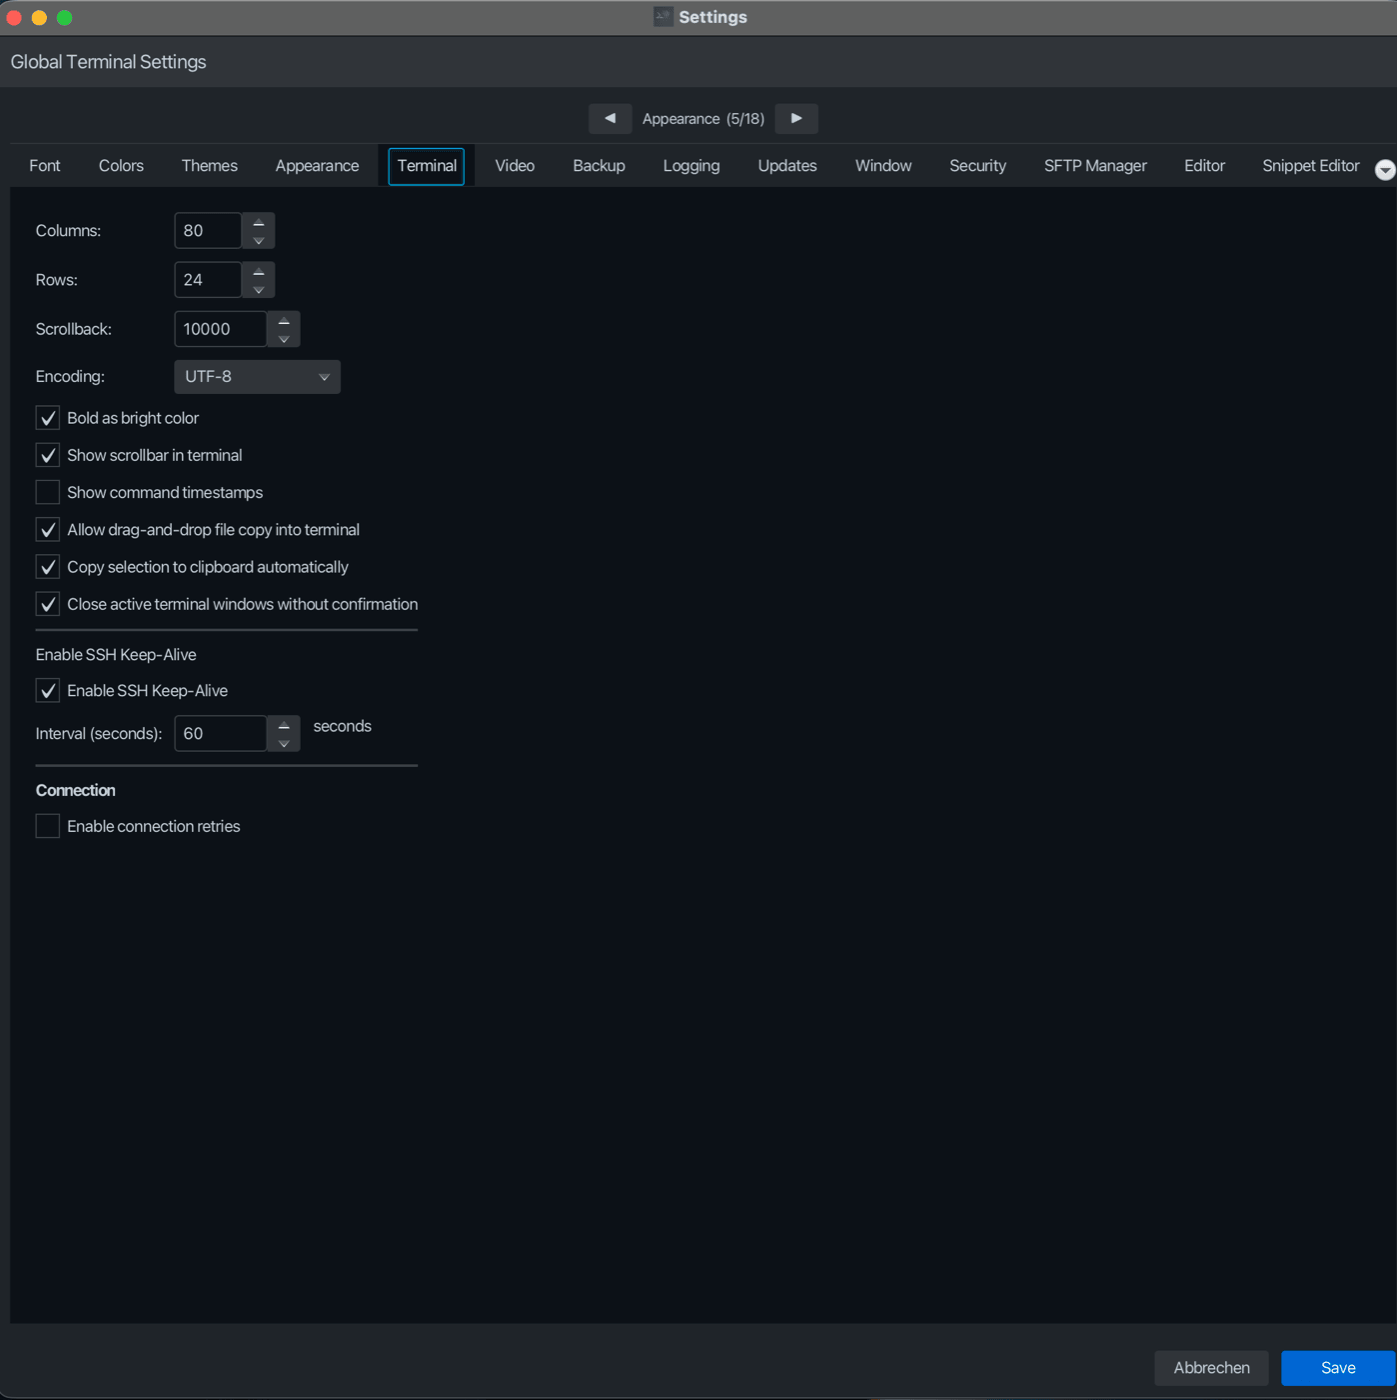
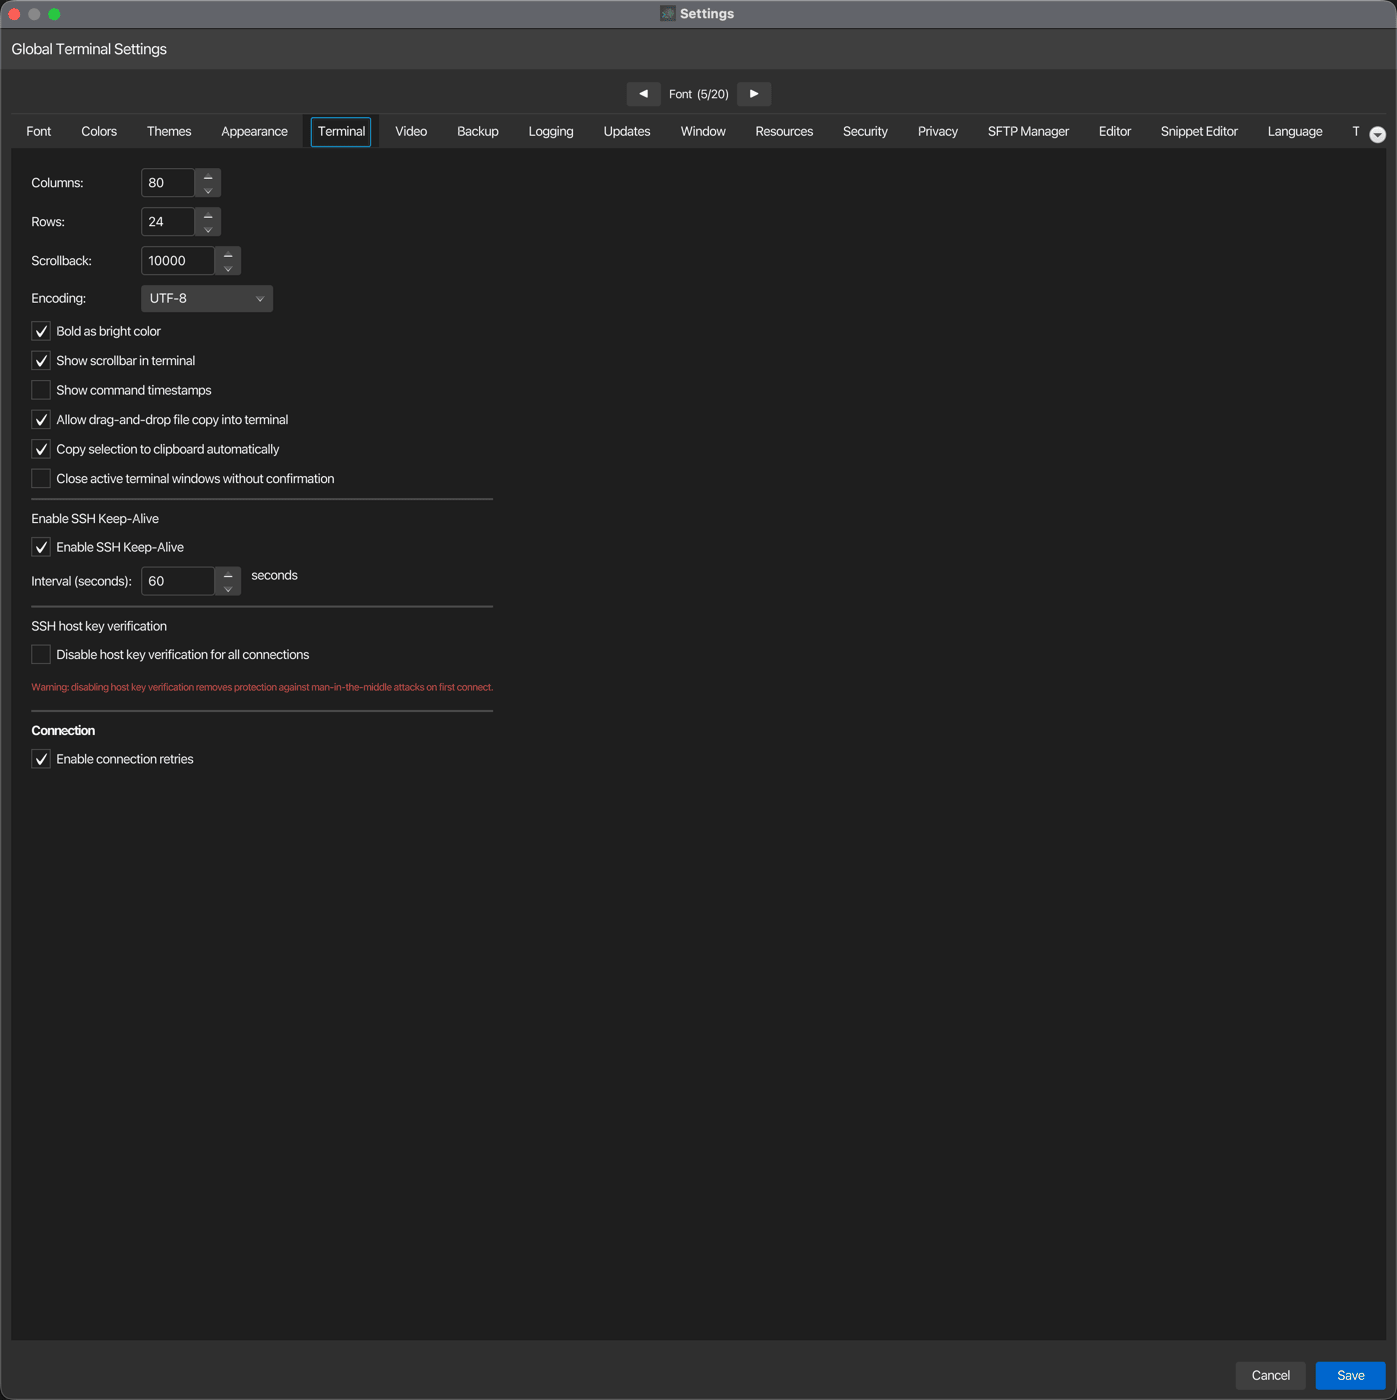
fix(settings): stop the host-key block from stacking on the Connection section
PR #129 added the "SSH host-key verification" block at terminalGrid rows
14-17, but the pre-existing Connection section below it still started at
row 14. JavaFX GridPane stacks children added to the same cell, so the
host-key separator, label and checkbox rendered on top of the Connection
separator, header and retries checkbox.

Renumber the Connection section to rows 18-20. It is the last block added
to terminalGrid, so nothing further down needed shifting; rows 0-17 were
already collision-free.

Recapture the guide screenshot, which predated #129 entirely (it showed
5/18 tabs and no host-key block). Framed to the catalog's 1397x1400
full-window convention.

diff --git a/src/main/java/de/kortty/ui/SettingsDialog.java b/src/main/java/de/kortty/ui/SettingsDialog.java
@@ -717,11 +717,11 @@ public class SettingsDialog extends ThemeAwareDialog<ConnectionSettings> {
         terminalGrid.add(hostKeyWarn, 0, 17, 2, 1);
 
         // Connection section
-        terminalGrid.add(new Separator(), 0, 14, 2, 1);
+        terminalGrid.add(new Separator(), 0, 18, 2, 1);
         Label connectionHeader = new Label(I18n.get("settings.connection.header"));
         connectionHeader.setStyle("-fx-font-weight: bold;");
-        terminalGrid.add(connectionHeader, 0, 15, 2, 1);
-        terminalGrid.add(connectionRetriesEnabledCheck, 0, 16, 2, 1);
+        terminalGrid.add(connectionHeader, 0, 19, 2, 1);
+        terminalGrid.add(connectionRetriesEnabledCheck, 0, 20, 2, 1);
         
         terminalTab.setContent(terminalGrid);
 
